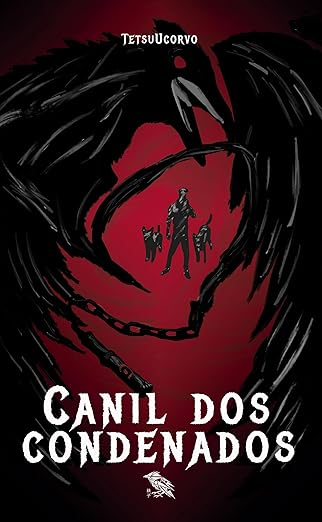
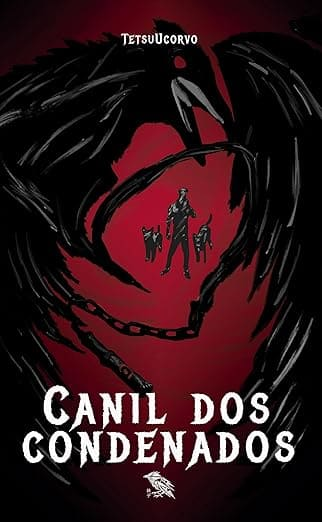
comprimindo imagens e add urls de yampi

diff --git a/src/data/works/canil-dos-condenados.ts b/src/data/works/canil-dos-condenados.ts
@@ -142,21 +142,23 @@ export const canilDosCondenados: Work = {
           {
             title: 'Só o livro',
             description: 'O conto impresso, entregue na sua casa.',
-            price: 'R$ 34,90',
+            price: 'R$ 34,90 + frete',
             image: '/mockup2.png',
             imageAlt: 'Livro Canil dos Condenados',
             includes: ['Livro físico'],
             buttonLabel: 'Quero só o livro',
+            url: "https://tetsuucorvo.pay.yampi.com.br/r/OWO0U8LBB4"
           },
           {
             title: 'Edição completa',
             description:
               'Livro + marcador + pin + polaroid Canavarro — a experiência completa do universo.',
-            price: 'R$ 59,90',
+            price: 'R$ 59,90 + frete',
             image: '/bonus/edicao-completa.png',
             imageAlt: 'Edição completa Canil dos Condenados com brindes',
             includes: ['Livro físico', 'Marcador', 'Pin colecionável', 'Polaroid Canavarro'],
             buttonLabel: 'Quero a edição completa',
+            url: "https://tetsuucorvo.pay.yampi.com.br/r/PX46QVUY73"
           },
         ],
       },
